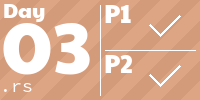
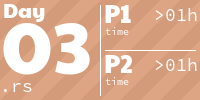
2025: day 3 solution

diff --git a/2025/src/bin/03.rs b/2025/src/bin/03.rs
@@ -1,41 +1,72 @@
 #![warn(clippy::pedantic)]
 #![allow(clippy::missing_panics_doc)]
 
-use aoc_shared::time_execution;
+use aoc_shared::time_execution_us;
 static INPUT_TXT: &str = include_str!("../../input/03.txt");
 
 fn main() {
     println!("🌟 --- Day 3 Results --- 🌟");
-    let (res_1, duration_1) = time_execution(|| part_1(INPUT_TXT));
-    println!("📌 Part 1: {res_1}, complete in {duration_1} ms");
+    let (res_1, duration_1) = time_execution_us(|| part_1(INPUT_TXT));
+    println!("📌 Part 1: {res_1}, complete in {duration_1} us");
 
-    let (res_2, duration_2) = time_execution(|| part_2(INPUT_TXT));
-    println!("📌 Part 2: {res_2}, complete in {duration_2} ms");
+    let (res_2, duration_2) = time_execution_us(|| part_2(INPUT_TXT));
+    println!("📌 Part 2: {res_2}, complete in {duration_2} us");
 }
 
-fn part_1(_input: &str) -> usize {
-    0
+fn max_joltage(bank: &str, digits: usize) -> usize {
+    let bytes = bank.as_bytes();
+    let len = bytes.len();
+
+    (0..digits)
+        .rev()
+        .scan(0, |left, i| {
+            let slice = &bytes[*left..len - i];
+
+            let (high_pos, highest) = slice
+                .iter()
+                .enumerate()
+                .try_fold((0, 0u8), |best, (idx, &byte)| {
+                    let result = if byte > best.1 { (idx, byte) } else { best };
+                    if byte == b'9' {
+                        Err(result)
+                    } else {
+                        Ok(result)
+                    }
+                })
+                .unwrap_or_else(|result| result);
+
+            *left += high_pos + 1;
+            Some((highest - b'0') as usize)
+        })
+        .fold(0, |acc, digit| acc * 10 + digit)
 }
 
-fn part_2(_input: &str) -> usize {
-    0
+fn part_1(input: &str) -> usize {
+    input.trim().lines().map(|line| max_joltage(line, 2)).sum()
+}
+
+fn part_2(input: &str) -> usize {
+    input.trim().lines().map(|line| max_joltage(line, 12)).sum()
 }
 
 #[cfg(test)]
 mod tests {
     use super::*;
 
-    const TEST_INPUT: &str = "";
+    const TEST_INPUT: &str = "987654321111111
+811111111111119
+234234234234278
+818181911112111";
 
     #[test]
     fn test_part1() {
-        assert_eq!(part_1(TEST_INPUT), 0);
-        assert_eq!(part_1(INPUT_TXT), 0);
+        assert_eq!(part_1(TEST_INPUT), 357);
+        assert_eq!(part_1(INPUT_TXT), 17613);
     }
 
     #[test]
     fn test_part2() {
-        assert_eq!(part_2(TEST_INPUT), 0);
-        assert_eq!(part_2(INPUT_TXT), 0);
+        assert_eq!(part_2(TEST_INPUT), 3_121_910_778_619);
+        assert_eq!(part_2(INPUT_TXT), 175_304_218_462_560);
     }
 }

diff --git a/README.md b/README.md
@@ -4,16 +4,19 @@ Solutions for [adventofcode.com](https://adventofcode.com)
 
  <!-- AOC TILES BEGIN -->
 <h1 align="center">
-  Advent of Code - 287/504 ⭐
+  Advent of Code - 289/506 ⭐
 </h1>
 <h1 align="center">
-  2025 - 4 ⭐ - Rust
+  2025 - 6 ⭐ - Rust
 </h1>
 <a href="2025/src/bin/01.rs">
   <img src=".aoc_tiles/tiles/2025/01.png" width="161px">
 </a>
 <a href="2025/src/bin/02.rs">
   <img src=".aoc_tiles/tiles/2025/02.png" width="161px">
+</a>
+<a href="2025/src/bin/03.rs">
+  <img src=".aoc_tiles/tiles/2025/03.png" width="161px">
 </a>
 <h1 align="center">
   2024 - 50 ⭐ - Rust
